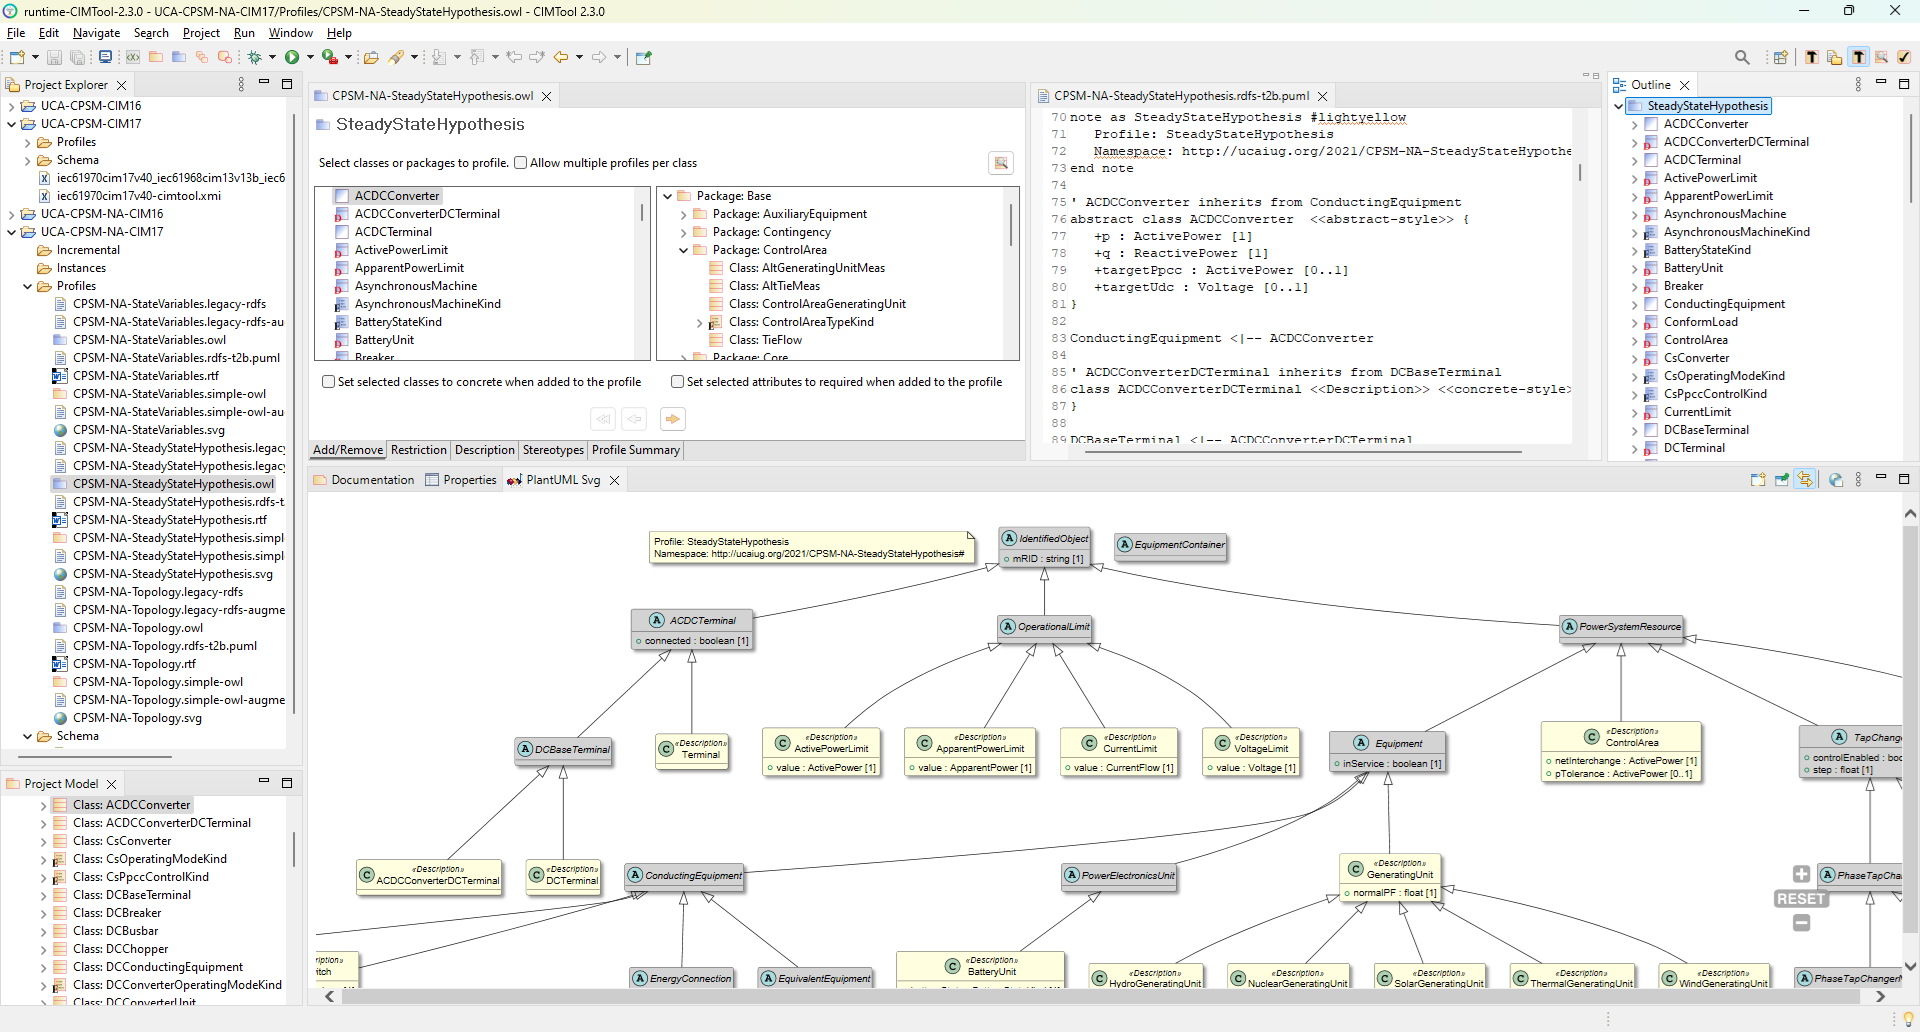
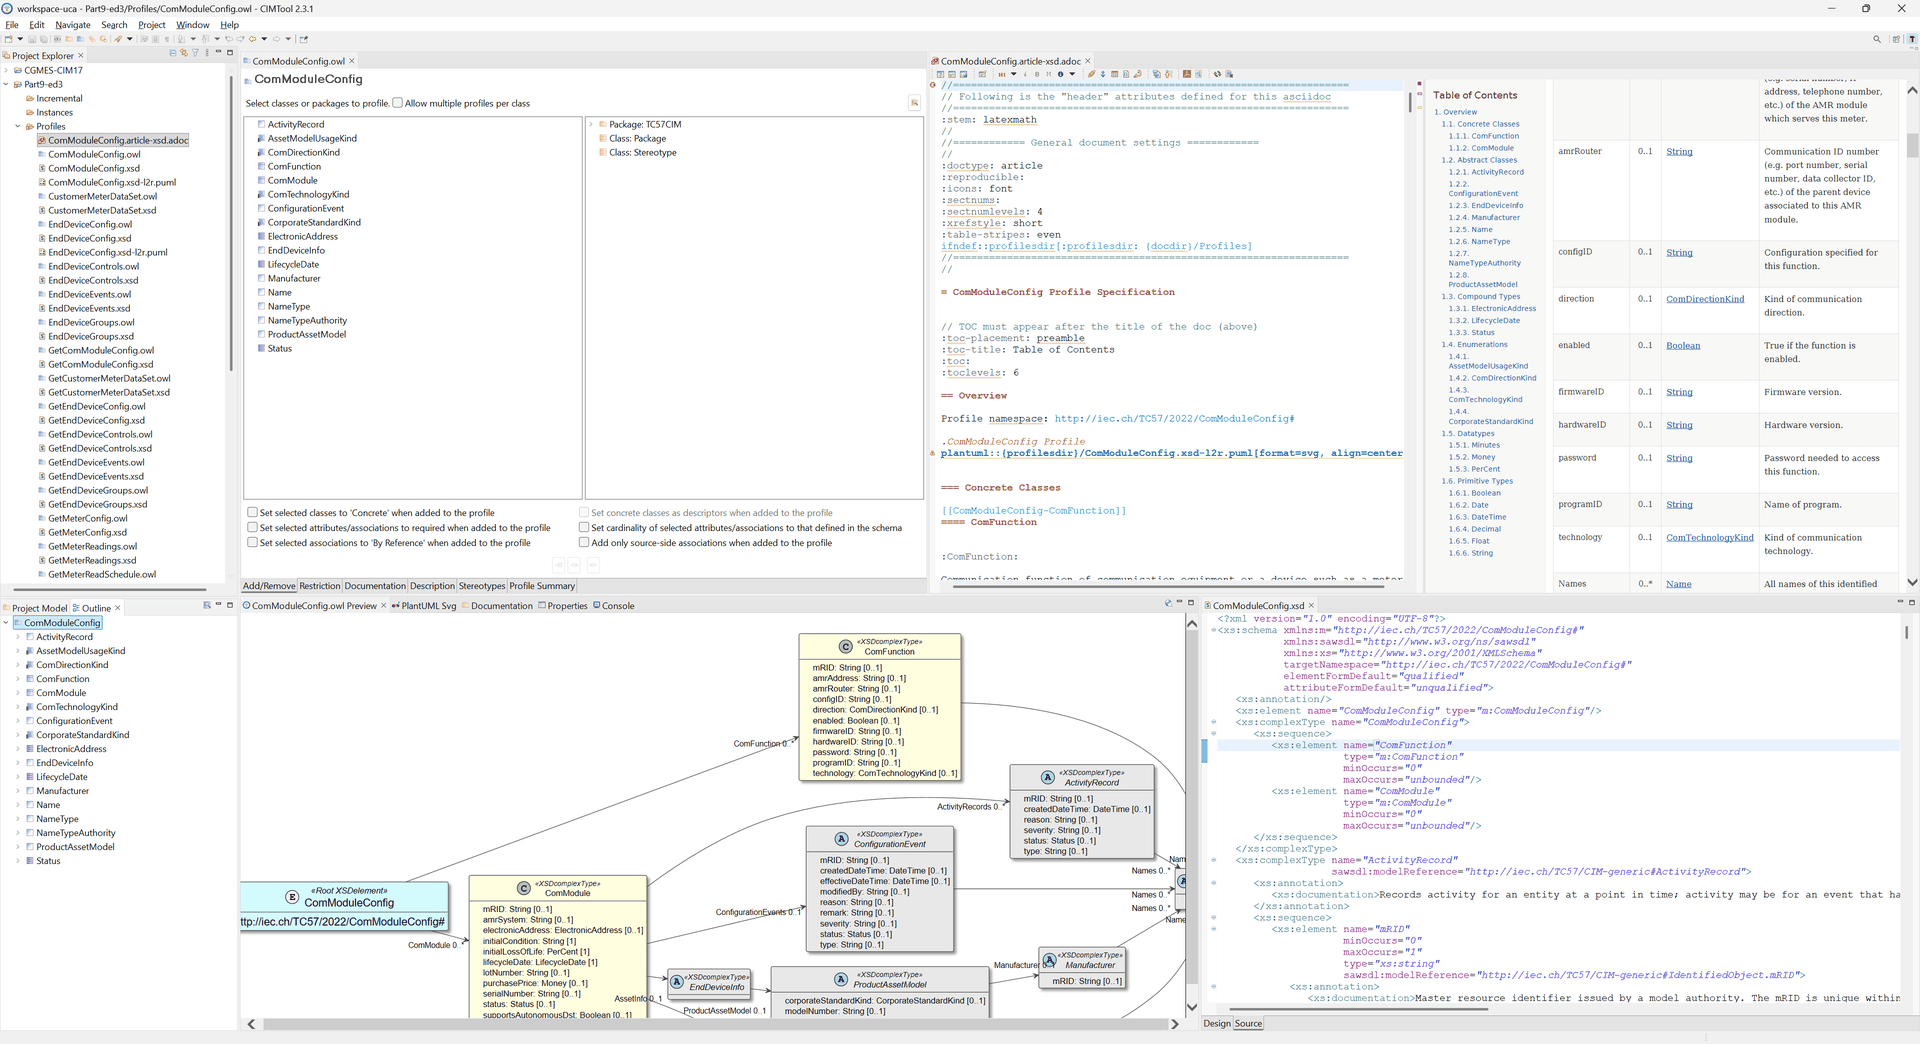
#333 Use the CIMTool 2.3.1 screenshot in the home page header
Replace the home page hero screenshot with a CIMTool 2.3.1 capture of
the ComModuleConfig profile, and serve it at two resolutions:

- docs/images/CIMToolScreenshot.png (1920 x 1044) for standard screens
- docs/images/CIMToolScreenshot@2x.png (3840 x 2088, new) for high
  density screens, selected with srcset

The hero link now opens the full-resolution image.

Claude-Session: https://claude.ai/code/session_014Fn1UUk6SMAviY7Gpc8W8y

Changed region(s): [[0.0, 0.0, 1.0, 0.9922]]

diff --git a/overrides/partials/header.html b/overrides/partials/header.html
@@ -34,8 +34,8 @@
         </div>
         <p class="cmm-hero__release">Latest release <b>2.3.1</b> · 09-Nov-2026 · <a href="{{ 'release-notes/' | url }}">Release notes</a></p>
       </div>
-      <a class="cmm-hero__shot" href="{{ 'images/CIMToolScreenshot.png' | url }}">
-        <img src="{{ 'images/CIMToolScreenshot.png' | url }}" alt="CIMTool workspace showing a profile and its generated outputs">
+      <a class="cmm-hero__shot" href="{{ 'images/CIMToolScreenshot@2x.png' | url }}">
+        <img src="{{ 'images/CIMToolScreenshot.png' | url }}" srcset="{{ 'images/CIMToolScreenshot.png' | url }} 1x, {{ 'images/CIMToolScreenshot@2x.png' | url }} 2x" alt="CIMTool workspace showing a profile and its generated outputs">
       </a>
     </div>
     <nav class="md-header__inner md-grid cmm-masthead__tools" aria-label="{{ lang.t('header') }}">
